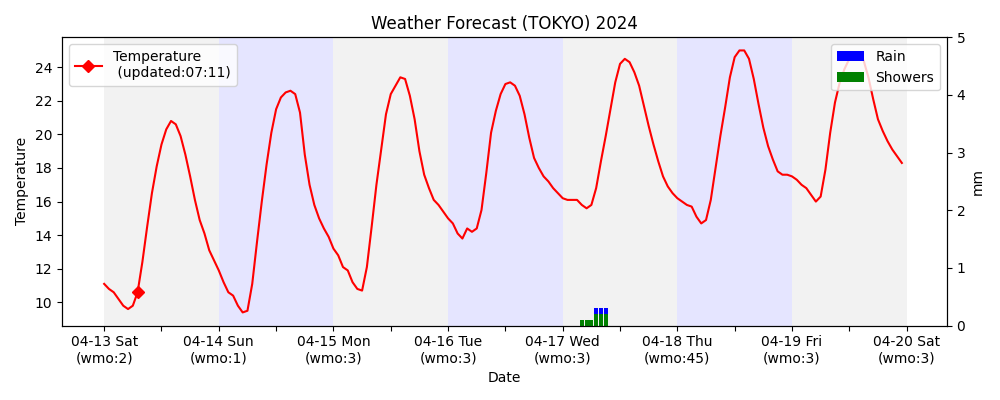
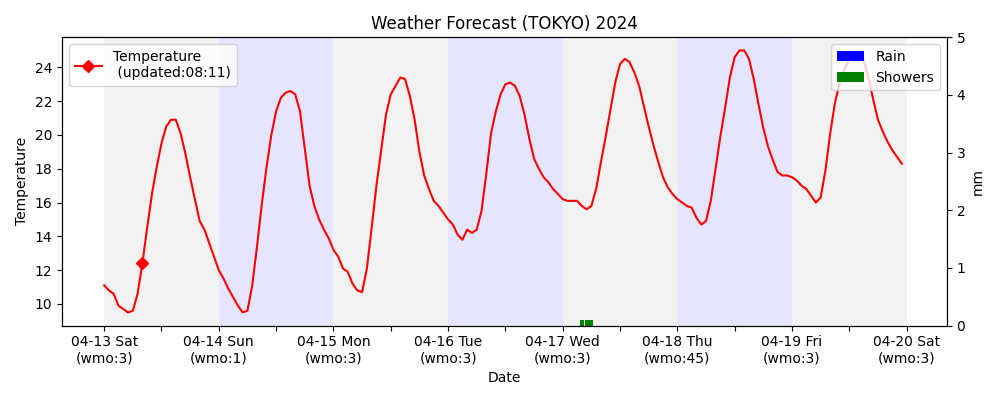
deploy: c6d68548d823f2cd1b1e00d646effbe56777e65f

diff --git a/docs/src/dashboard/marketinfo.html b/docs/src/dashboard/marketinfo.html
@@ -33,7 +33,7 @@
             <td>153.194</td>
             <td>152.59</td>
             <td>153.386</td>
-            <td>2024-04-13 07:11:51</td>
+            <td>2024-04-13 08:11:24</td>
         </tr>
     </table>
 
